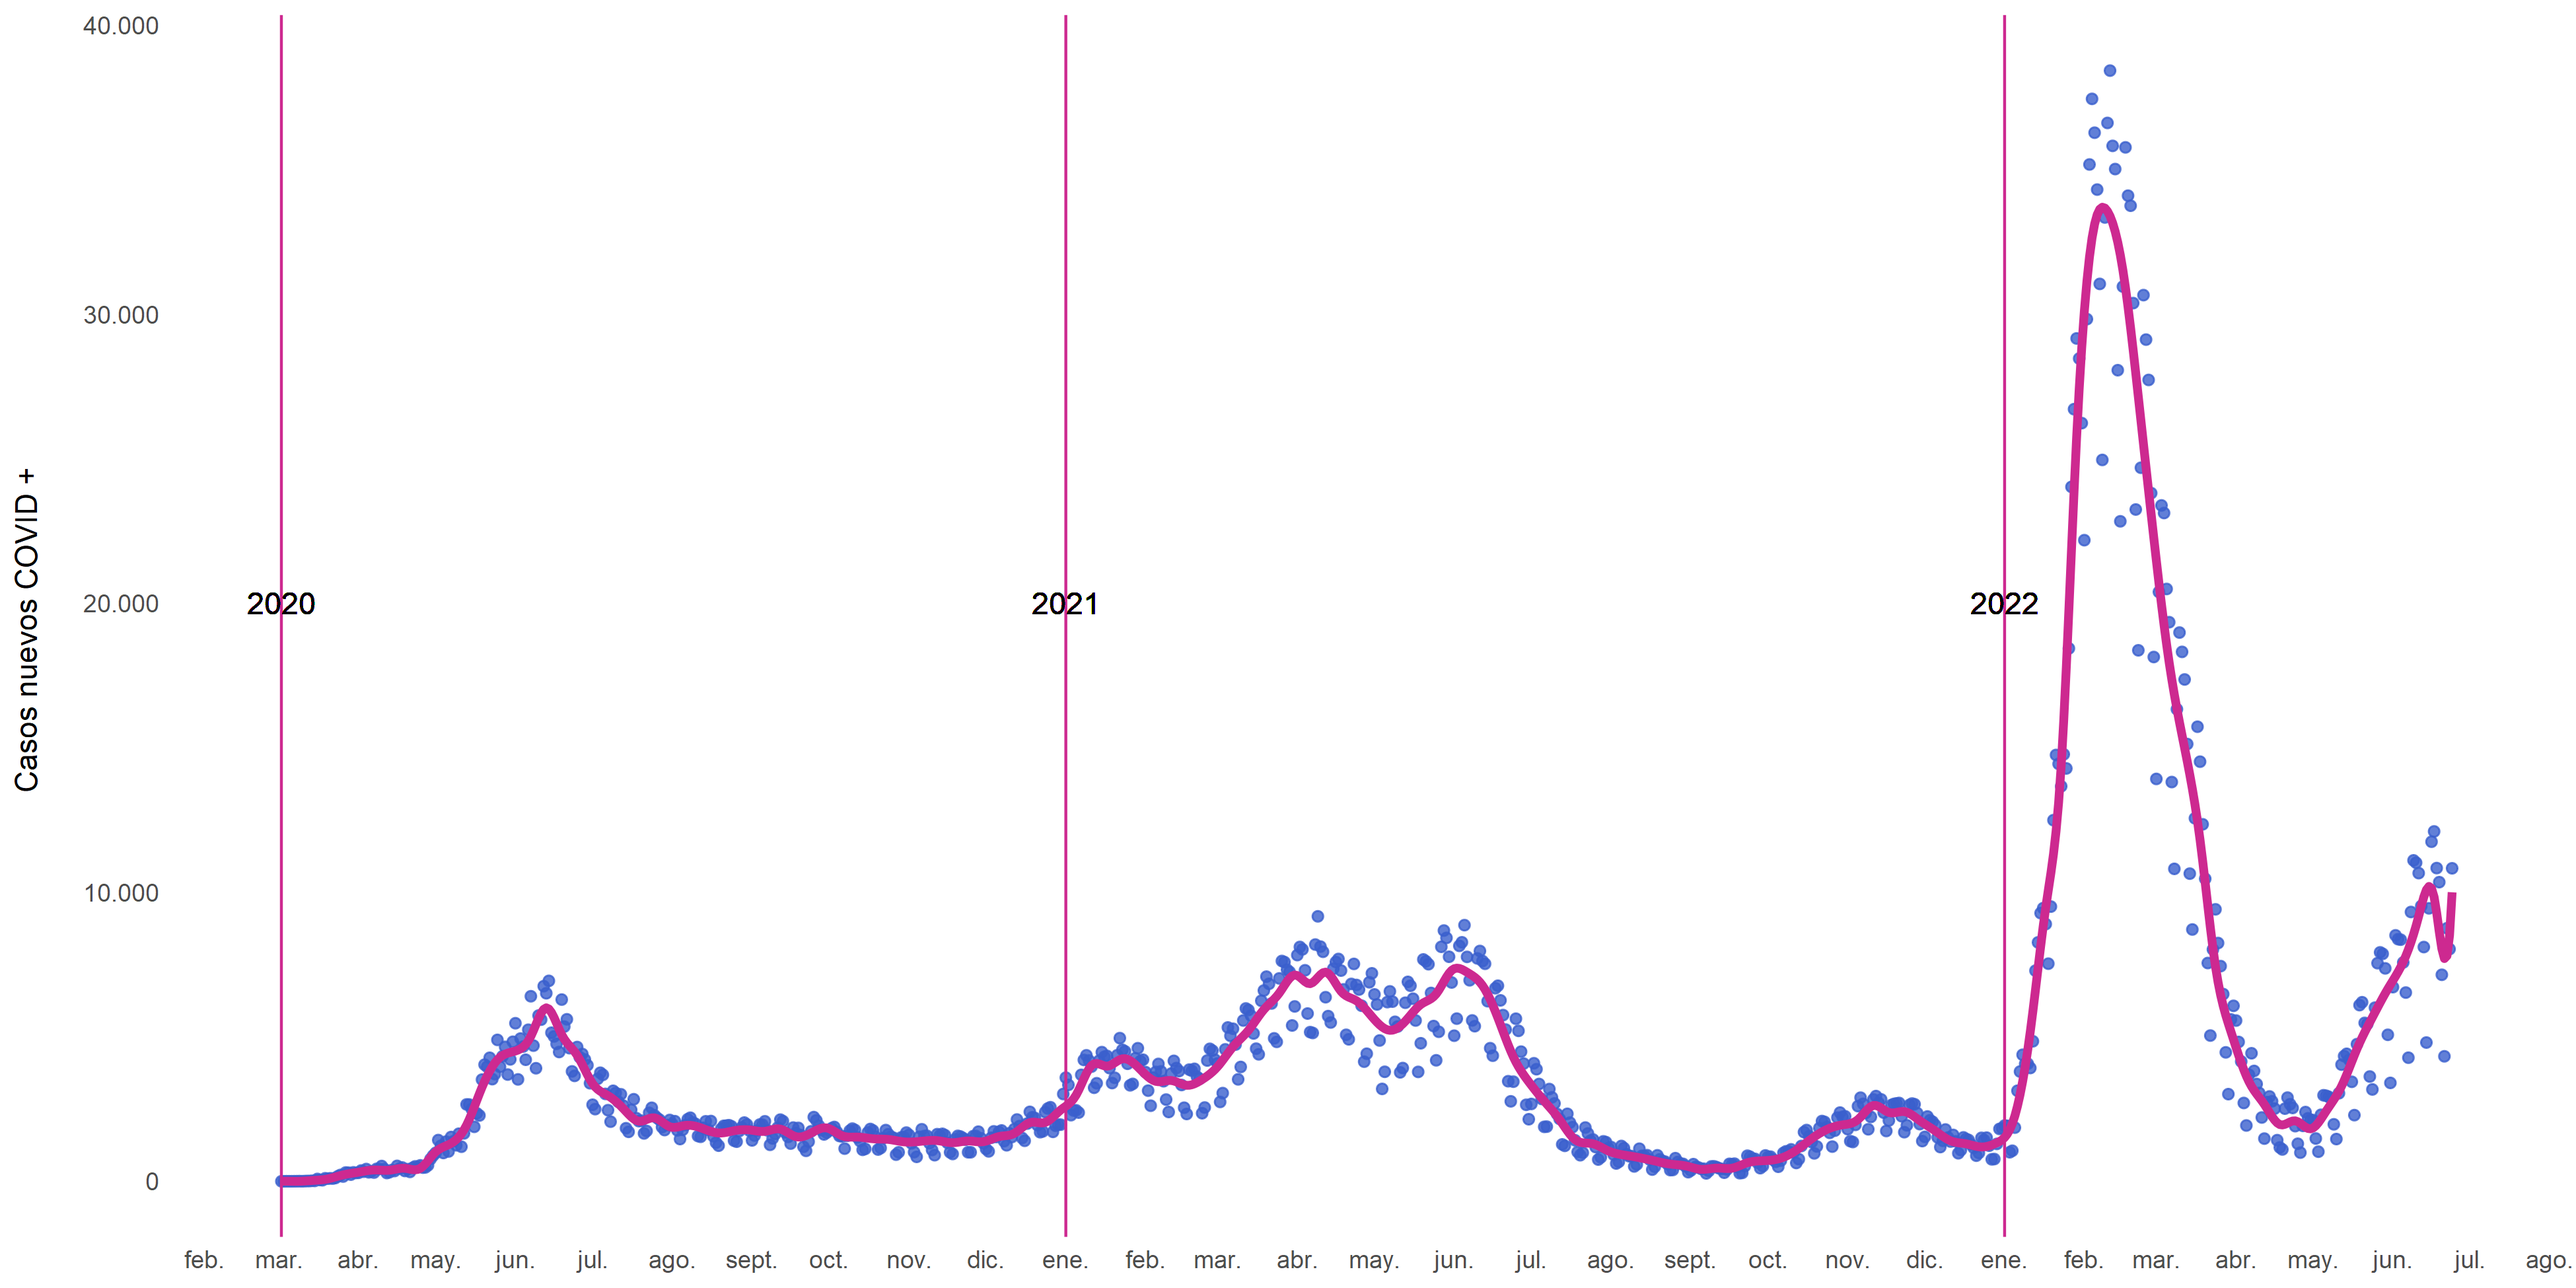
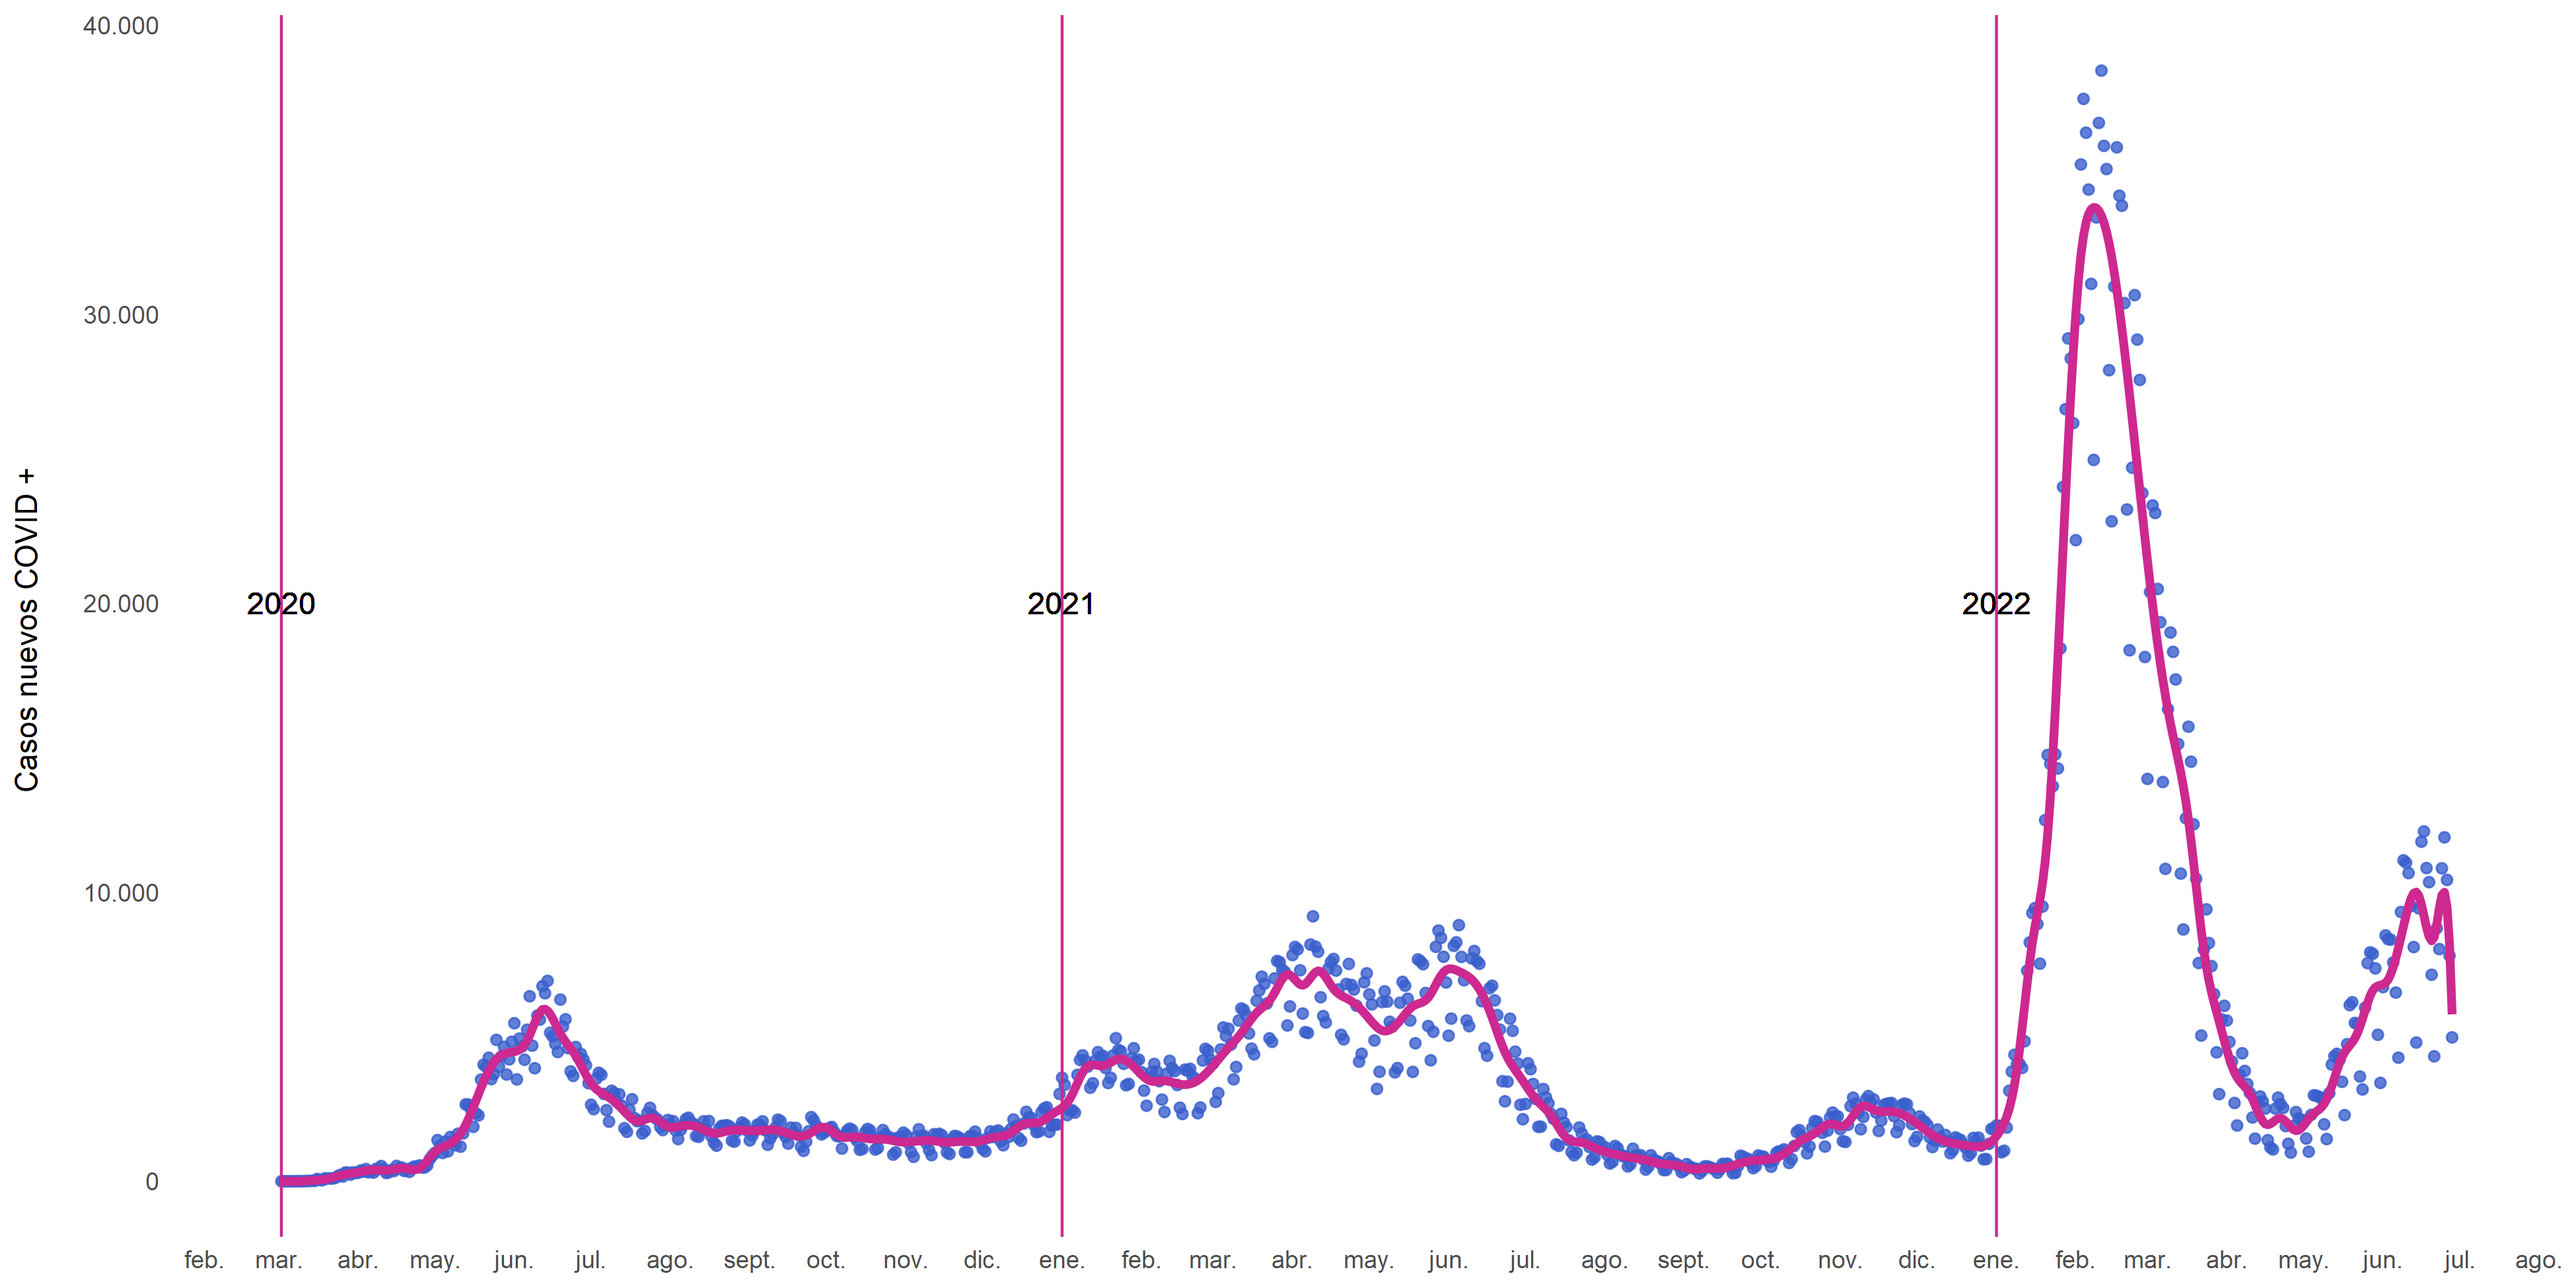
F5 28_06_2022

Changed region(s): [[0.1862, 0.0923, 0.9618, 0.9231], [0.1862, 0.9538, 0.9928, 0.9846], [0.4033, 0.4308, 0.4344, 0.4923]]

diff --git a/README.md b/README.md
@@ -1,6 +1,6 @@
 # covid_scl
 
-COVID's situation in Chile. **Last update: 24-06-2022**
+COVID's situation in Chile. **Last update: 28-06-2022**
 
 ## COVID stripes
 
